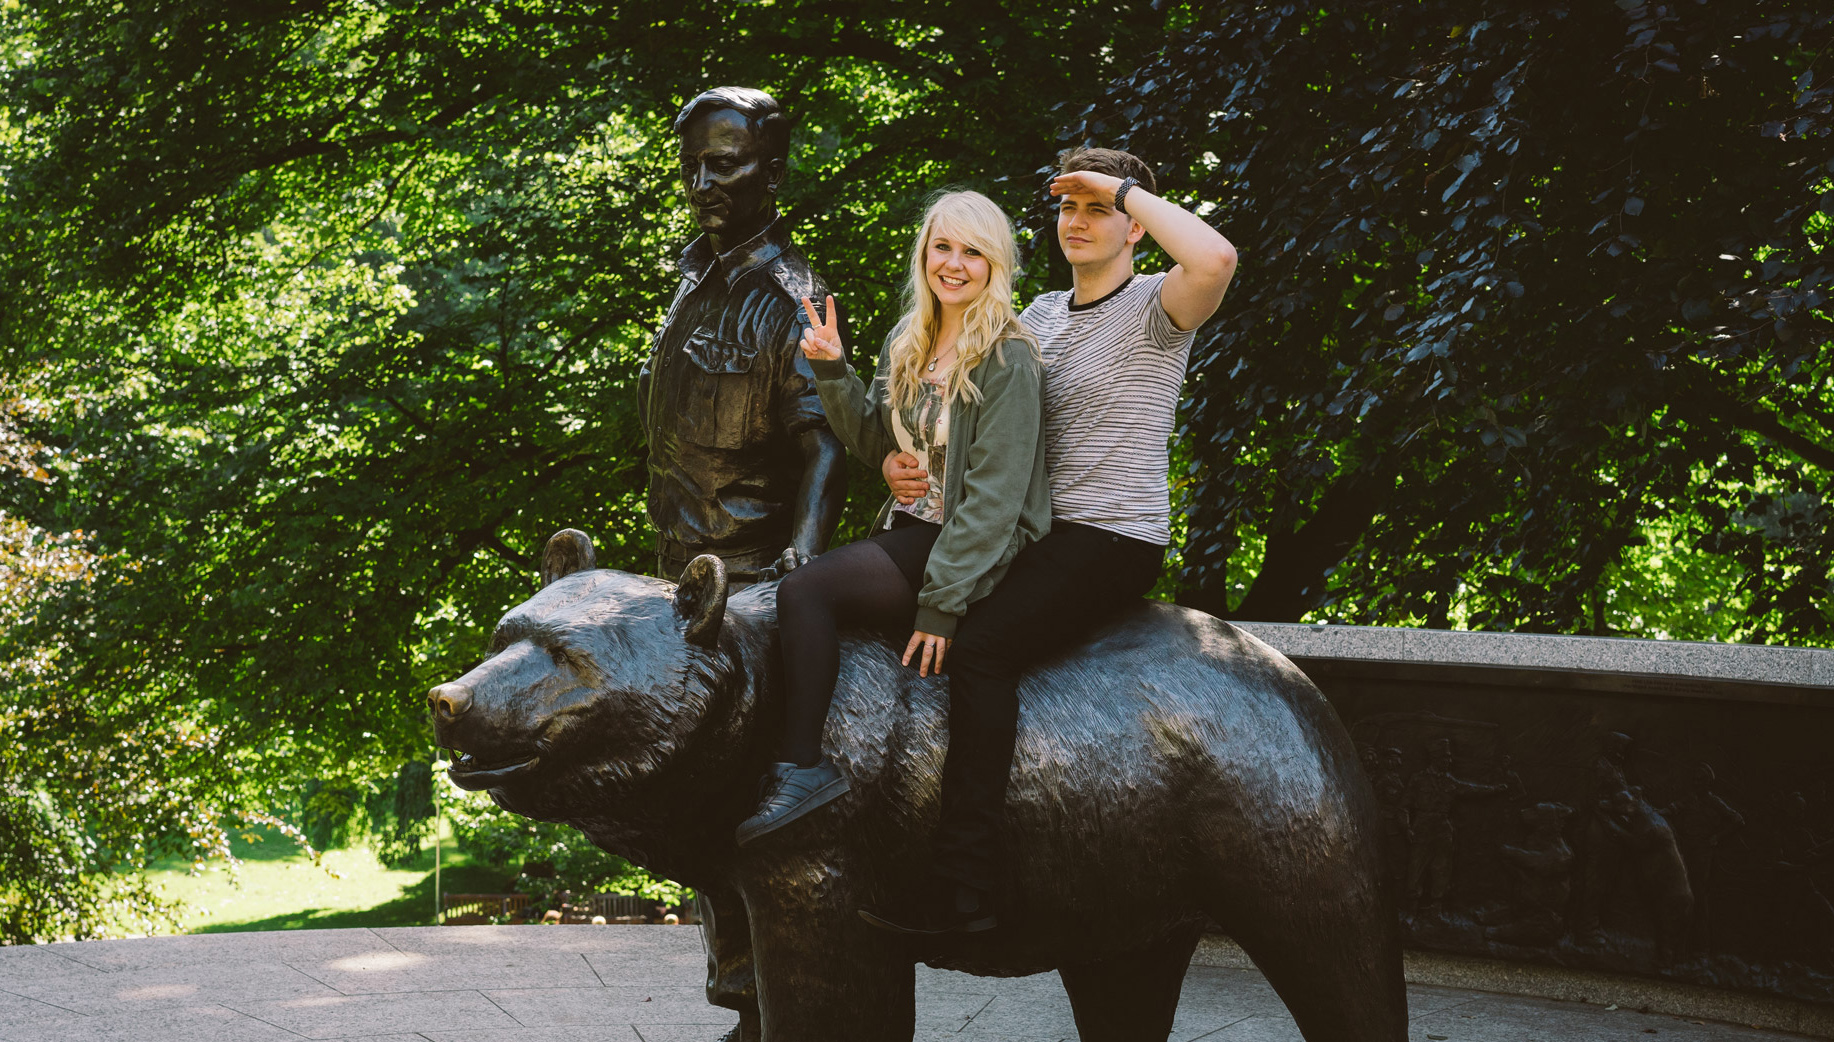
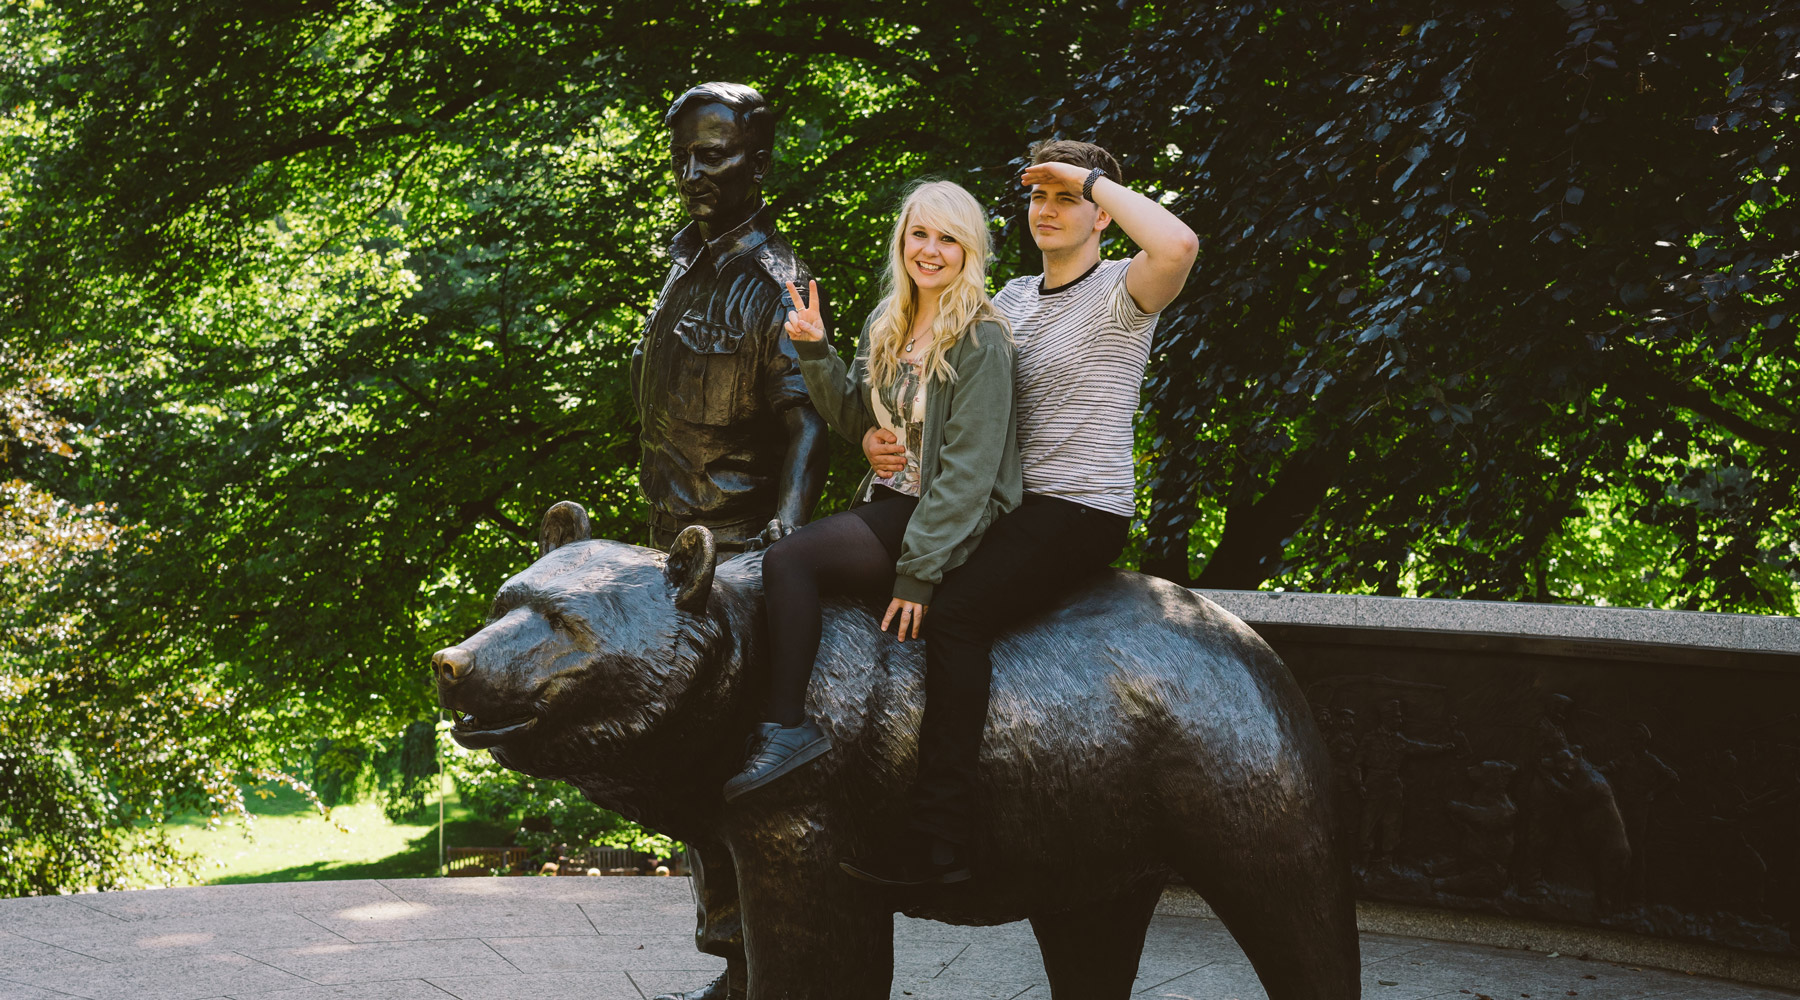
replacing blog post images with better edits, fixing typo

diff --git a/_site/journal/2016-year-in-review/index.html b/_site/journal/2016-year-in-review/index.html
@@ -225,7 +225,7 @@
 
 <h2 id="lets-go-2017">Let’s Go, 2017</h2>
 
-<p>To me, happiness is spending quality time with my favourite people, so I’ll keeping that my top priority. I’m also hoping I can cross more fun experiences and personal achievements off my list this year, I’m feeling optimistic!</p>
+<p>To me, happiness is spending quality time with my favourite people, so I’ll be keeping that my top priority. I’m also hoping I can cross more fun experiences and personal achievements off my list this year, I’m feeling optimistic!</p>
 
 <p>I’m excited to face fresh challenges in my new job, but it’ll be sad saying goodbye to the wonderful team at Eyekiller, who I’ve grown pretty fond of.</p>
 
